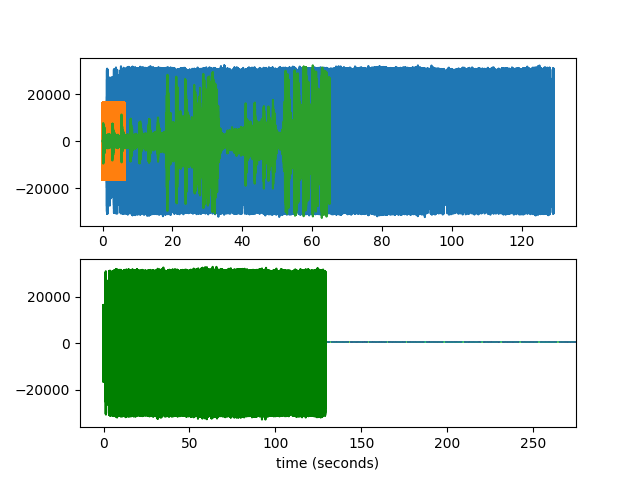
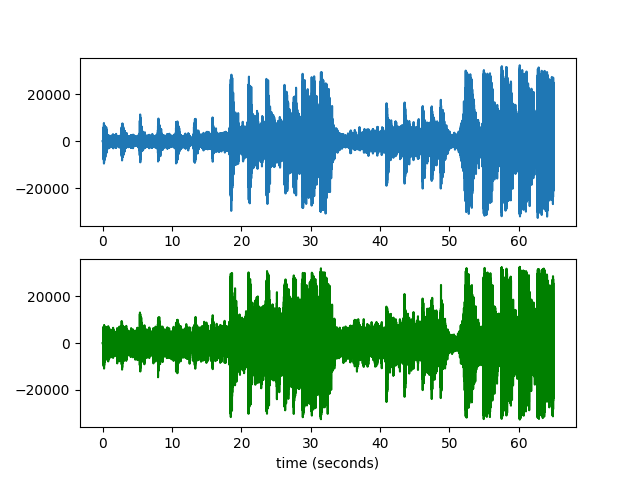
split the graph

diff --git a/readwav.py b/readwav.py
@@ -32,6 +32,7 @@ def read_wav(wav_file):
     wav_data = wav_data.T
     time = np.arange(0, n) * (1.0 / framerate)
 
+    pl.figure()
     pl.subplot(211)
     pl.plot(time, wav_data[0])
     pl.subplot(212)
@@ -39,9 +40,11 @@ def read_wav(wav_file):
     pl.xlabel("time (seconds)")
     pl.savefig('%s_pylab.png' %wav_file)
 
+    matplotlib.pyplot.figure()
     matplotlib.pyplot.specgram(wav_data[0], NFFT=NFFT, Fs=Fs, noverlap=900) # generate spectogram
     matplotlib.pyplot.savefig('%s_1.png' %wav_file)
 
+    matplotlib.pyplot.figure()
     matplotlib.pyplot.specgram(wav_data[1], NFFT=NFFT, Fs=Fs, noverlap=900) # generate spectogram
     matplotlib.pyplot.savefig('%s_2.png' %wav_file)
 
